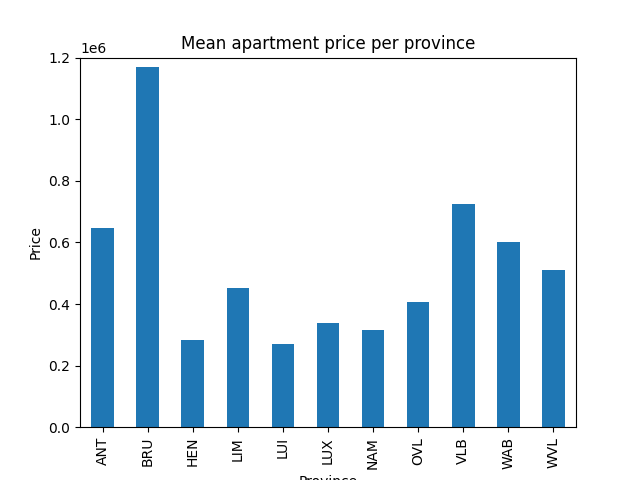
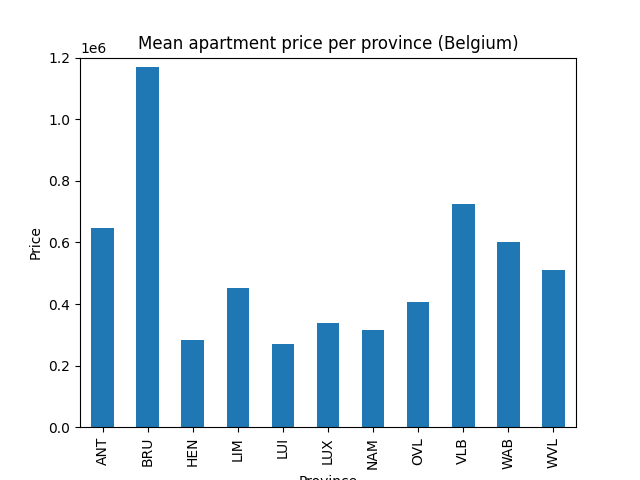
Some plots

Changed region(s): [[0.2188, 0.0625, 0.8125, 0.125]]

diff --git a/Data-Analysis_houses.py b/Data-Analysis_houses.py
@@ -65,60 +65,66 @@ df_houses = df[df["typeProperty"] == "HOUSE"]
 df_apartments = df[df["typeProperty"] == "APARTMENT"]
 
 df_fla_h = df_fla[df_fla["typeProperty"] == "HOUSE"]
-df_fla_h = df_fla[df_fla["typeProperty"] == "APARTMENT"]
+df_fla_a = df_fla[df_fla["typeProperty"] == "APARTMENT"]
 
 df_wal_h = df_wal[df_wal["typeProperty"] == "HOUSE"]
-df_wal_h = df_wal[df_wal["typeProperty"] == "APARTMENT"]
+df_wal_a = df_wal[df_wal["typeProperty"] == "APARTMENT"]
 
 ###############################
 
 # VISUALIZATION
 # with python and Matplotlib
 # mean per province
-df_houses.groupby("province").price.mean().plot(kind = "bar")
-plt.title("Mean house price per province")
+# df_houses.groupby("province").price.mean().plot(kind = "bar")
+# plt.title("Mean house price per province (Belgium)")
+# plt.xlabel("Province")
+# plt.ylabel("Price")
+# plt.ylim(0, 1200000)
+# plt.savefig("housePerProvince")
+
+# df_apartments.groupby("province").price.mean().plot(kind = "bar")
+# plt.title("Mean apartment price per province (Belgium)")
+# plt.xlabel("Province")
+# plt.ylabel("Price")
+# plt.ylim(0, 1200000)
+# plt.savefig("apartmentPerProvince")
+
+# # mean per region
+# df_fla_h.groupby("province").price.mean().plot(kind = "bar")
+# plt.title("Mean house price in Flanders")
+# plt.xlabel("Province")
+# plt.ylabel("Price")
+# plt.ylim(0, 1200000)
+# plt.savefig("houseFlanders")
+
+# df_fla_a.groupby("province").price.mean().plot(kind = "bar")
+# plt.title("Mean apartment price in Flanders")
+# plt.xlabel("Province")
+# plt.ylabel("Price")
+# plt.ylim(0, 1200000)
+# plt.savefig("apartmentFlanders")
+
+df_wal_h.groupby("province").price.mean().plot(kind = "bar")
+plt.title("Mean house price in Walonia")
 plt.xlabel("Province")
 plt.ylabel("Price")
 plt.ylim(0, 1200000)
-plt.savefig("housePerProvince")
+plt.savefig("houseWallonia")
 
-df_apartments.groupby("province").price.mean().plot(kind = "bar")
-plt.title("Mean apartment price per province")
-plt.xlabel("Province")
-plt.ylabel("Price")
-plt.ylim(0, 1200000)
-plt.savefig("apartmentPerProvince")
+# df_wal_a.groupby("province").price.mean().plot(kind = "bar")
+# plt.title("Mean apartment price in Walonia")
+# plt.xlabel("Province")
+# plt.ylabel("Price")
+# plt.ylim(0, 1200000)
+# plt.savefig("apartmentWallonia")
 
-# mean per region
-df_fla_h.groupby("province").price.mean().plot(kind = "bar")
-plt.title("Mean house price in Flanders")
-plt.xlabel("Province")
-plt.ylabel("Price")
-plt.ylim(0, 1200000)
-plt.savefig("houseFlanders")
-
-
-df_apartments.groupby("province").price.mean().plot(kind = "bar")
-plt.title("Mean apartment price in Walonia")
-plt.xlabel("Province")
-plt.ylabel("Price")
-plt.ylim(0, 1200000)
-plt.savefig("apartmentWallonia")
-
-# mean in Belgium
-df.groupby("province").price.mean().plot(kind = "bar")
-plt.title("Mean house price in Flanders")
-plt.xlabel("Province")
-plt.ylabel("Price")
-plt.ylim(0, 1200000)
-plt.savefig("houseBelgium")
-
-df.groupby("province").price.mean().plot(kind = "bar")
-plt.title("Mean apartment price in Walonia")
-plt.xlabel("Province")
-plt.ylabel("Price")
-plt.ylim(0, 1200000)
-plt.savefig("apartmentBelgium")
+# # mean in Belgium
+# df.groupby("province").price.mean().plot(kind = "bar")
+# plt.title("Mean property price in Belgium")
+# plt.xlabel("Province")
+# plt.ylabel("Price")
+# plt.ylim(0, 1200000)
+# plt.savefig("meanBelgium")
 
 
 # with Seaborn
